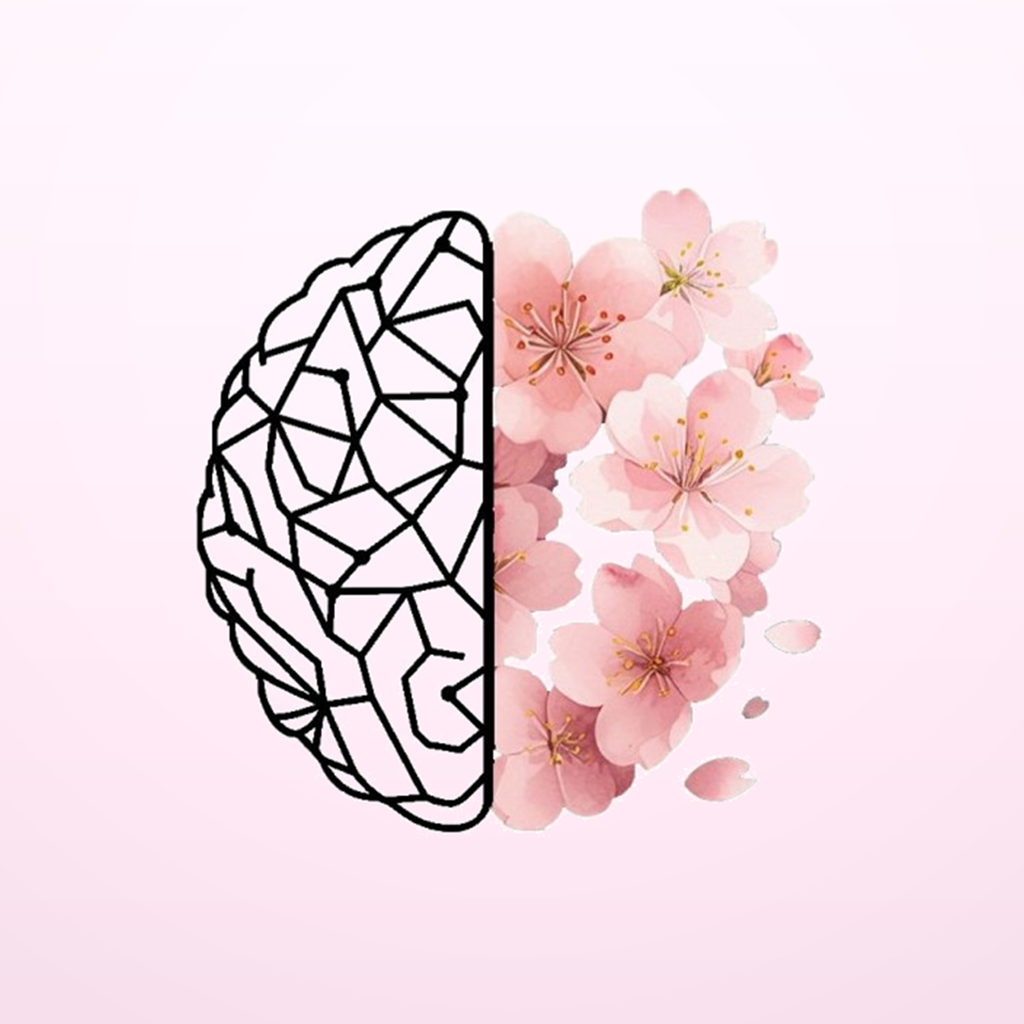
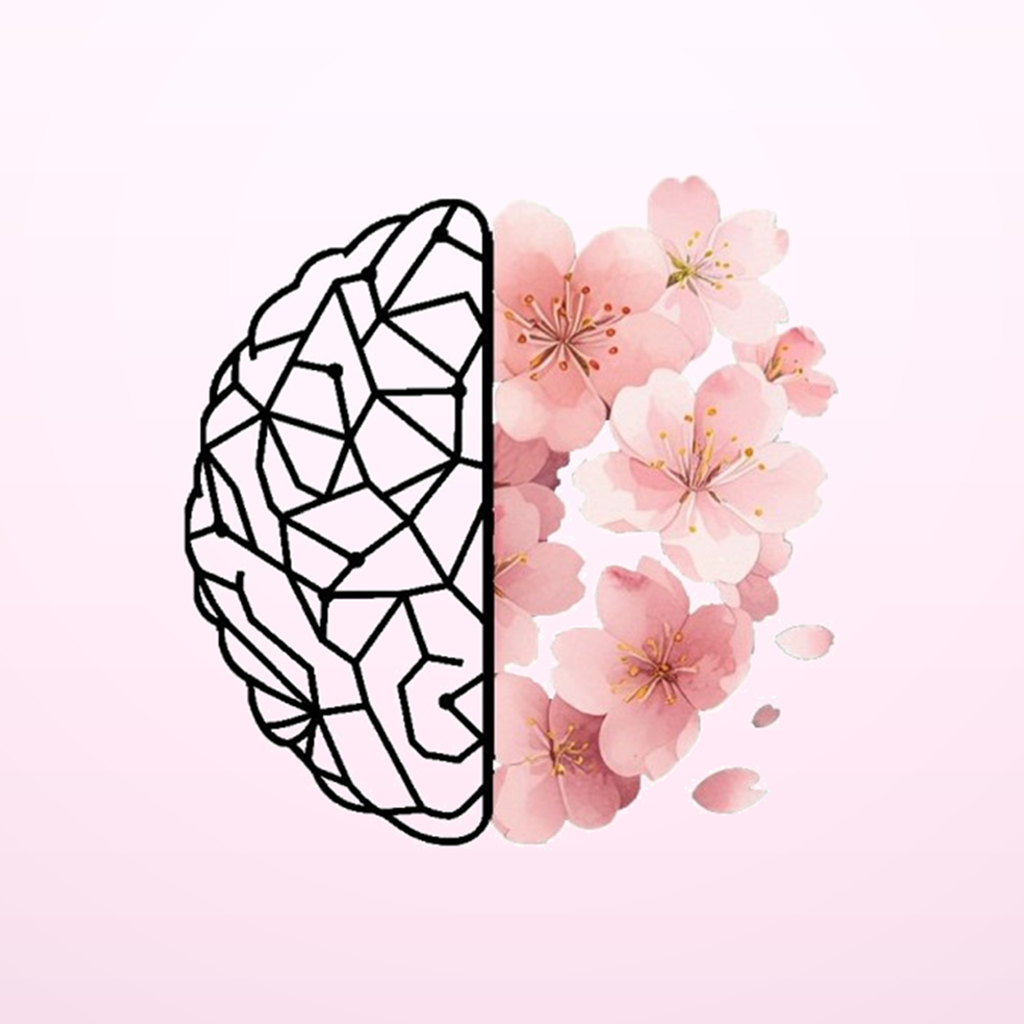
Improve book recognition and password entry

diff --git a/src/pages/ResetPasswordPage.jsx b/src/pages/ResetPasswordPage.jsx
@@ -1,4 +1,4 @@
-import { Lock, Mail } from "lucide-react";
+import { Eye, EyeOff, Lock, Mail } from "lucide-react";
 import { useEffect, useState } from "react";
 import { Link, useNavigate, useSearchParams } from "react-router-dom";
 import { Button } from "../components/Button.jsx";
@@ -14,6 +14,7 @@ export function ResetPasswordPage() {
   const [email, setEmail] = useState("");
   const [password, setPassword] = useState("");
   const [confirmPassword, setConfirmPassword] = useState("");
+  const [showPasswords, setShowPasswords] = useState(false);
   const [status, setStatus] = useState("");
   const [busy, setBusy] = useState(false);
   const [checking, setChecking] = useState(true);
@@ -102,10 +103,18 @@ export function ResetPasswordPage() {
                       <Lock size={18} className="text-vault-muted" />
                       <input
                         className="min-w-0 flex-1 bg-transparent font-semibold outline-none"
-                        type="password"
+                        type={showPasswords ? "text" : "password"}
                         value={password}
                         onChange={(event) => setPassword(event.target.value)}
                       />
+                      <button
+                        className="grid size-9 shrink-0 place-items-center rounded-full text-vault-muted transition active:scale-95"
+                        type="button"
+                        aria-label={showPasswords ? "Hide password" : "Show password"}
+                        onClick={() => setShowPasswords((current) => !current)}
+                      >
+                        {showPasswords ? <EyeOff size={18} /> : <Eye size={18} />}
+                      </button>
                     </div>
                   </label>
 
@@ -115,10 +124,18 @@ export function ResetPasswordPage() {
                       <Lock size={18} className="text-vault-muted" />
                       <input
                         className="min-w-0 flex-1 bg-transparent font-semibold outline-none"
-                        type="password"
+                        type={showPasswords ? "text" : "password"}
                         value={confirmPassword}
                         onChange={(event) => setConfirmPassword(event.target.value)}
                       />
+                      <button
+                        className="grid size-9 shrink-0 place-items-center rounded-full text-vault-muted transition active:scale-95"
+                        type="button"
+                        aria-label={showPasswords ? "Hide password" : "Show password"}
+                        onClick={() => setShowPasswords((current) => !current)}
+                      >
+                        {showPasswords ? <EyeOff size={18} /> : <Eye size={18} />}
+                      </button>
                     </div>
                   </label>
                 </>

diff --git a/src/pages/LoginPage.jsx b/src/pages/LoginPage.jsx
@@ -1,4 +1,4 @@
-import { Fingerprint, Lock, Mail, UserRound } from "lucide-react";
+import { Eye, EyeOff, Fingerprint, Lock, Mail, UserRound } from "lucide-react";
 import { useEffect, useState } from "react";
 import { Button } from "../components/Button.jsx";
 import { Card } from "../components/Card.jsx";
@@ -24,6 +24,7 @@ export function LoginPage() {
   const [username, setUsername] = useState("");
   const [email, setEmail] = useState(() => rememberedEmail);
   const [password, setPassword] = useState("");
+  const [showPassword, setShowPassword] = useState(false);
   const [rememberLogin, setRememberLogin] = useState(true);
   const [useBiometrics, setUseBiometrics] = useState(() => savedLoginRequiresBiometric());
   const [biometricsAvailable, setBiometricsAvailable] = useState(false);
@@ -194,7 +195,20 @@ export function LoginPage() {
               <span className="text-sm font-bold text-vault-muted">Password</span>
               <div className="flex min-h-12 items-center gap-3 rounded-2xl border border-rose-100 bg-white px-4 focus-within:border-vault-rose">
                 <Lock size={18} className="text-vault-muted" />
-                <input className="min-w-0 flex-1 bg-transparent font-semibold outline-none" type="password" value={password} onChange={(event) => setPassword(event.target.value)} />
+                <input
+                  className="min-w-0 flex-1 bg-transparent font-semibold outline-none"
+                  type={showPassword ? "text" : "password"}
+                  value={password}
+                  onChange={(event) => setPassword(event.target.value)}
+                />
+                <button
+                  className="grid size-9 shrink-0 place-items-center rounded-full text-vault-muted transition active:scale-95"
+                  type="button"
+                  aria-label={showPassword ? "Hide password" : "Show password"}
+                  onClick={() => setShowPassword((current) => !current)}
+                >
+                  {showPassword ? <EyeOff size={18} /> : <Eye size={18} />}
+                </button>
               </div>
             </label>
 

diff --git a/functions/src/index.ts b/functions/src/index.ts
@@ -979,10 +979,11 @@ function buildPrompt(photoWidth?: number, photoHeight?: number) {
     "Do not guess hidden contents.",
     "If a cabinet, drawer, box, or container is closed, label the storage area only and leave visibleItems empty unless items are actually visible.",
     "If a cabinet, drawer, bin, shelf, or container is open and items are visible, suggest concise likely item names.",
-    "If books are visible, list a book title only when the exact title words are clearly readable on the spine or cover.",
-    "Never invent, infer, autocomplete, or summarize book titles from the topic, cover art, author, color, or surrounding context.",
-    "If a book topic is recognizable but the title is not clearly readable, use a generic item such as anatomy book, cookbook, textbook, or unreadable book instead of a made-up title.",
-    "If only part of a title is clearly readable, include only the exact readable words and add partial title. Do not fill in missing words.",
+    "When books are visible, first perform OCR-style reading of every visible book spine and cover before naming items.",
+    "For readable books, put the exact printed title words in visibleItems as separate item names. Do not replace readable titles with topics or categories.",
+    "Never invent, infer, autocomplete, translate, or summarize book titles from the topic, cover art, author, color, or surrounding context.",
+    "If a book topic is recognizable but the title words are not clearly readable, use unreadable book as the item name and mention the likely topic only in notes.",
+    "If only part of a title is clearly readable, include only the exact readable words followed by partial title. Do not fill in missing words.",
   ].join(" ");
 }
 
@@ -1066,7 +1067,7 @@ const analysisSchema = {
           visibleItems: {
             type: "array",
             description:
-              "Concise visible item names. If books are visible, include each clearly readable exact book title as a separate item. Do not invent book titles; use generic topic labels when titles are not readable.",
+              "Concise visible item names. If books are visible, include each clearly readable exact printed book title as a separate item. Do not invent titles or use topic/category labels as titles; use unreadable book when the printed title cannot be read.",
             items: {
               type: "string",
             },